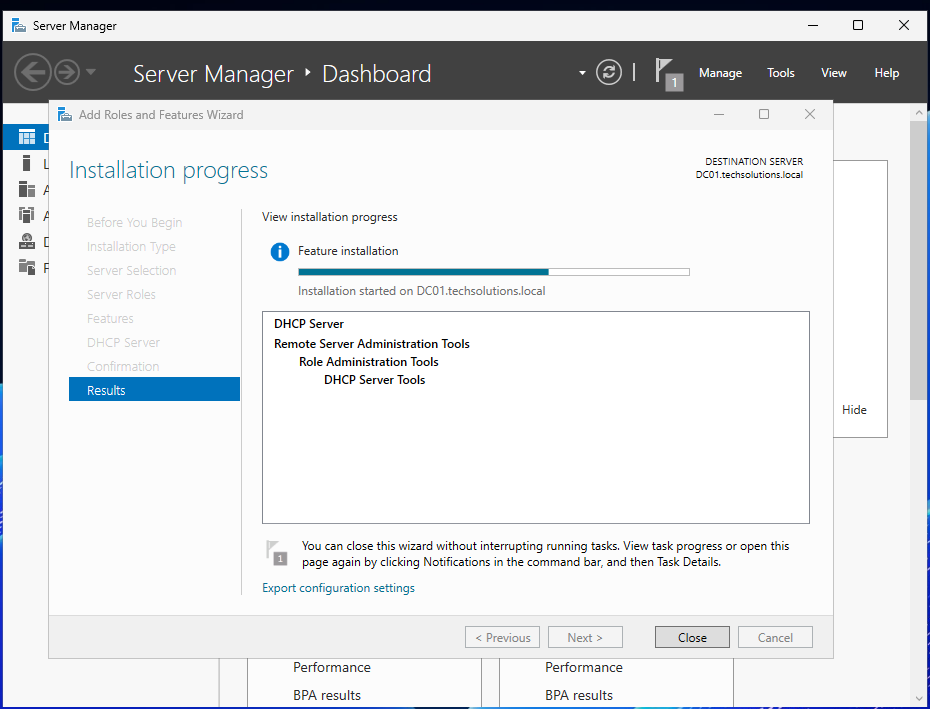
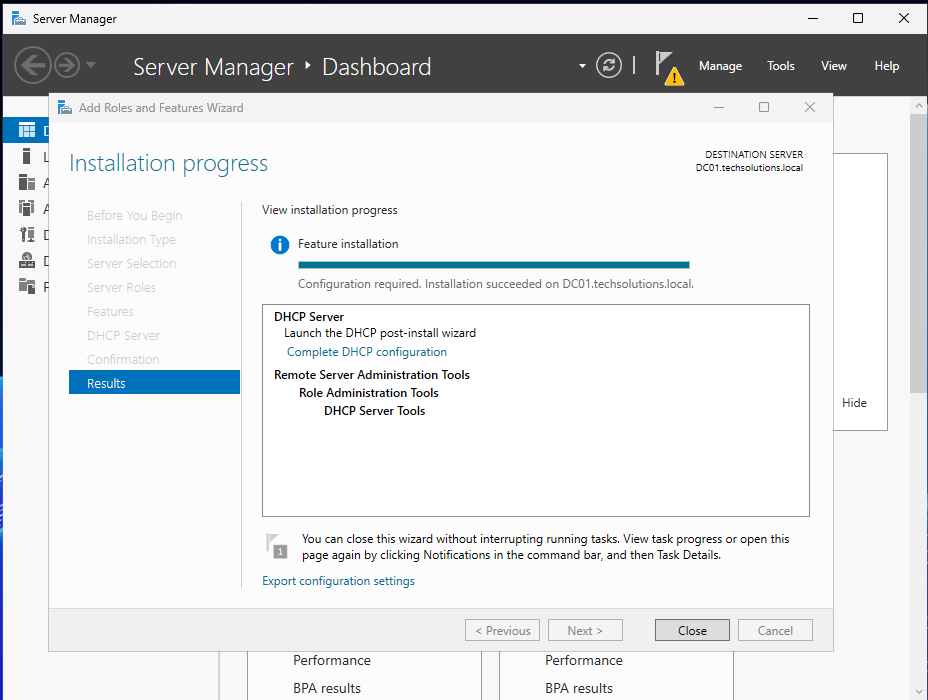
feat: Authorize DHCP Server in Active Directory

diff --git a/labs/lab06-dhcp/documentation/02-authorize-dhcp-server.md b/labs/lab06-dhcp/documentation/02-authorize-dhcp-server.md
@@ -1,0 +1,16 @@
+# Authorize DHCP Server
+
+## Objective
+
+Authorize the DHCP Server in Active Directory.
+
+## Steps
+
+1. Open the DHCP Post-Install Configuration Wizard.
+2. Verify the administrative credentials.
+3. Click **Commit**.
+4. Wait for the authorization process to complete successfully.
+
+## Result
+
+The DHCP Server is authorized in Active Directory and can now provide IP addresses to network clients.
